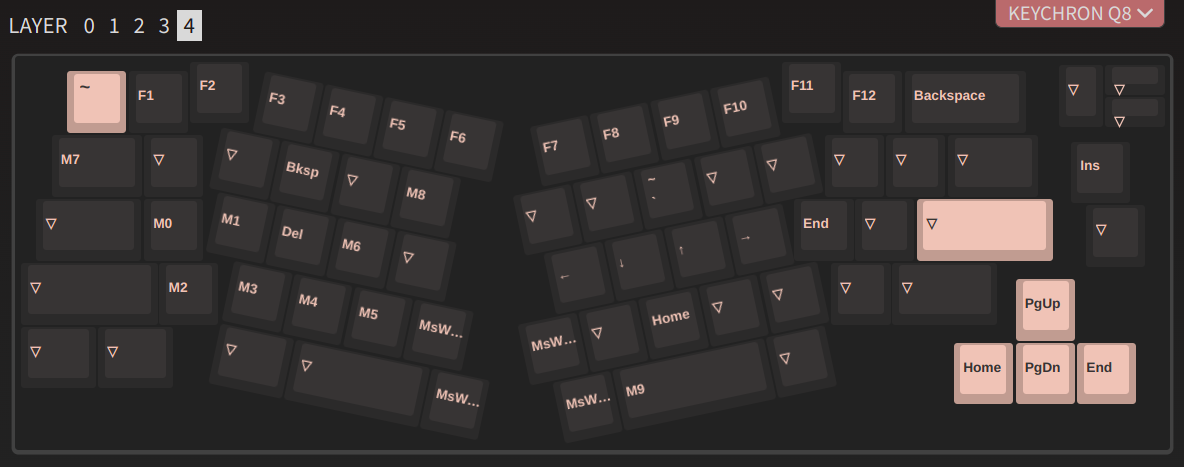
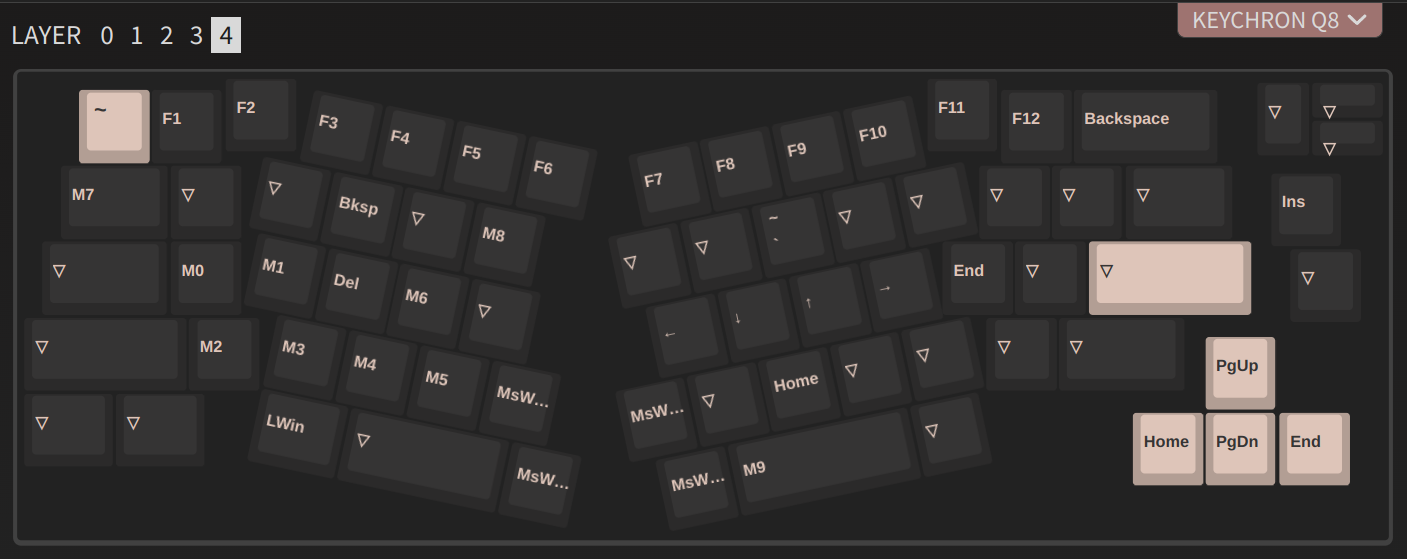
keychron_q8: small upd
"left space" (MO(4) + left ctrl => Win (Super) key

diff --git a/devices/keychron_q8/readme.md b/devices/keychron_q8/readme.md
@@ -3,16 +3,20 @@
 This place contains my layout(s) for Keychron Q8, set using VIA.<br/>
 For the details on VIA install and setup, checkout [the product homepage](https://www.keychron.com/products/keychron-q8-alice-layout-qmk-custom-mechanical-keyboard).
 
+<br/>
+
 ## The Procedure
 
 Just to remember:
 1. Open VIA.
 2. On `Design` tab, drag-n-drop the [Q8_US_ANSI_Knob_V1.5](./Q8_US_ANSI_Knob_V1.5.json) file into it.
-3. On `Configure` tab, go to `Save + Load` and click on _Load_ to load the layout (such as [layout 1's JSON file](./layout_1/keychron_q8___layout_1.json)).
+3. On `Configure` tab, go to `Save + Load` and click on _Load_ to load the [saved layout's JSON file](layout_3/keychron_q8_layout_3.json).
 
-## Current Layers
+<br/>
 
-The current layout (#3) has these layers (relevant for Linux/Win) defined:
+## The Current Layout
+
+The current layout ([#3](layout_3/readme.md)) has these layers (relevant for Linux/Win) defined as follows:
 
 ![](./layout_3/layout_3_layer_1.png)
 ![](./layout_3/layout_3_layer_3.png)
